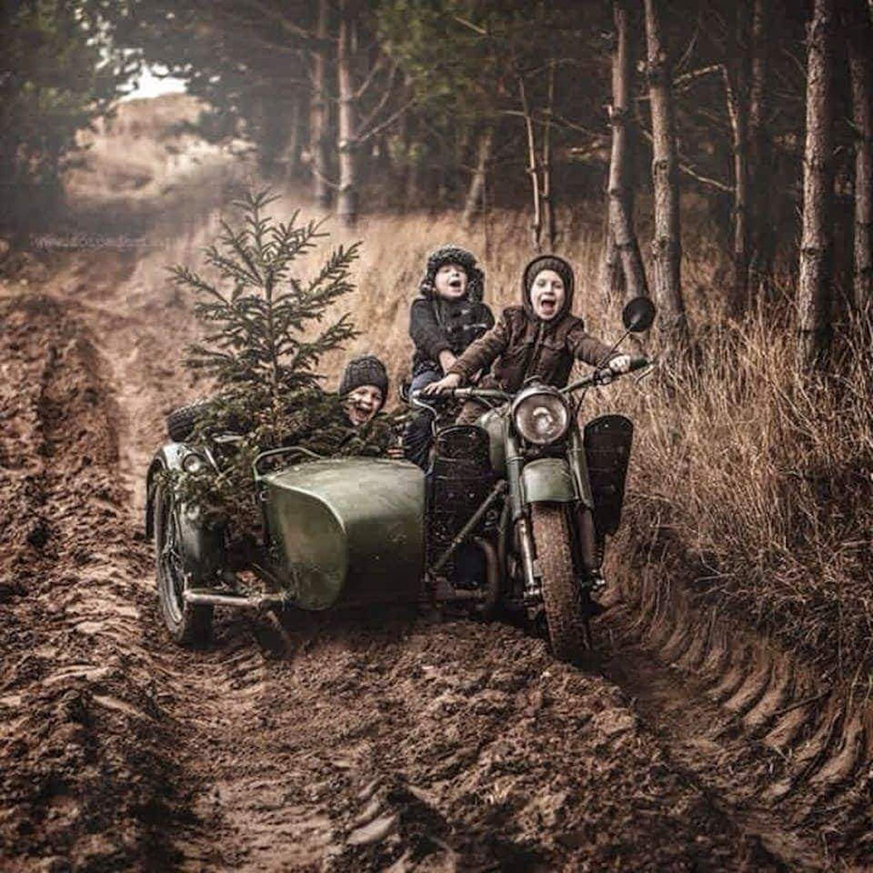
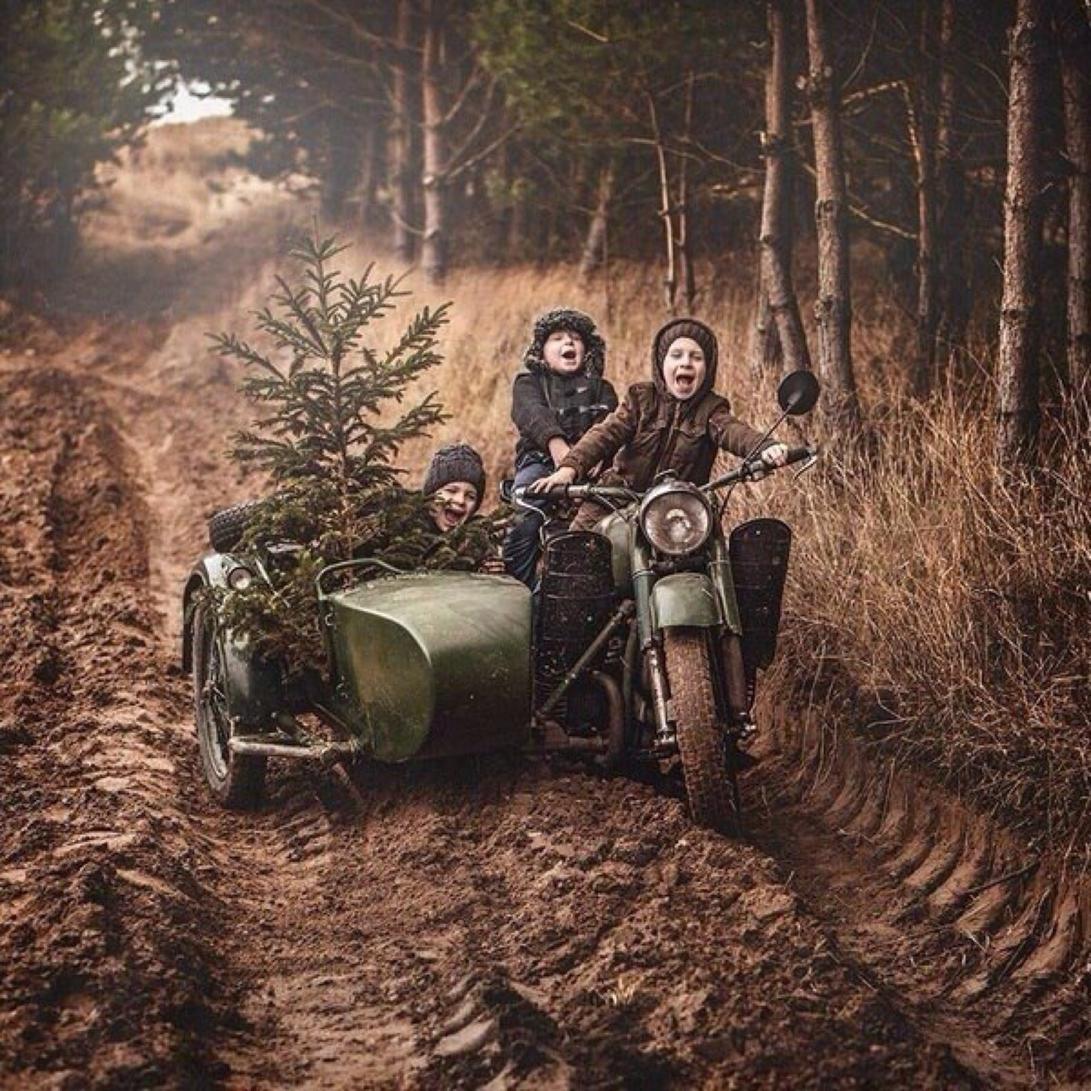
Added better photos to portfolio page

diff --git a/portfolio.html b/portfolio.html
@@ -37,7 +37,7 @@
             </div>
             <div id="lower-spacer">
             </div>
-            <img class="placeholder" src="assets/images/mig.jpg"/>
+            <img class="placeholder" src="assets/images/migs.jpg"/>
             <!-- <img class="placeholder" src="http://lorempixel.com/400/200"/> -->
             <img class="placeholder" src="assets/images/sidecar-kid.JPG"/>
         </div>
